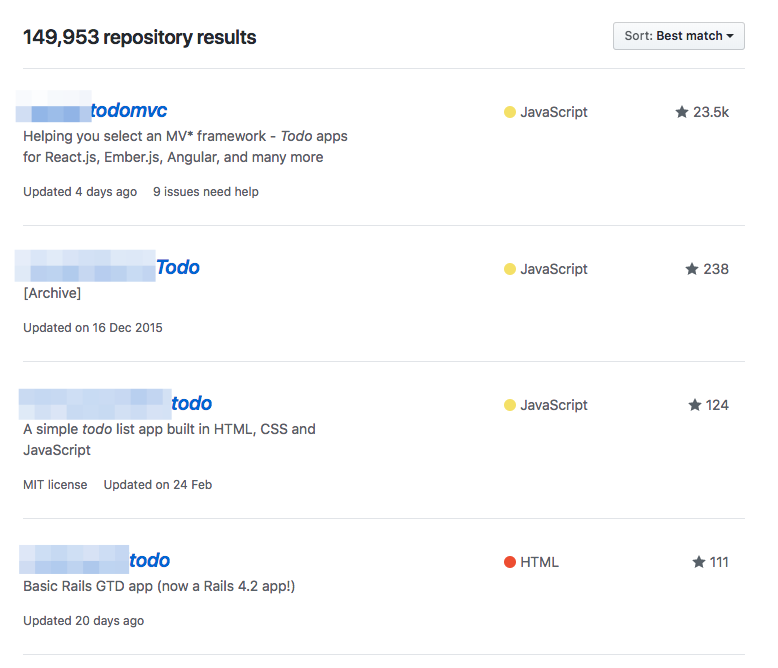
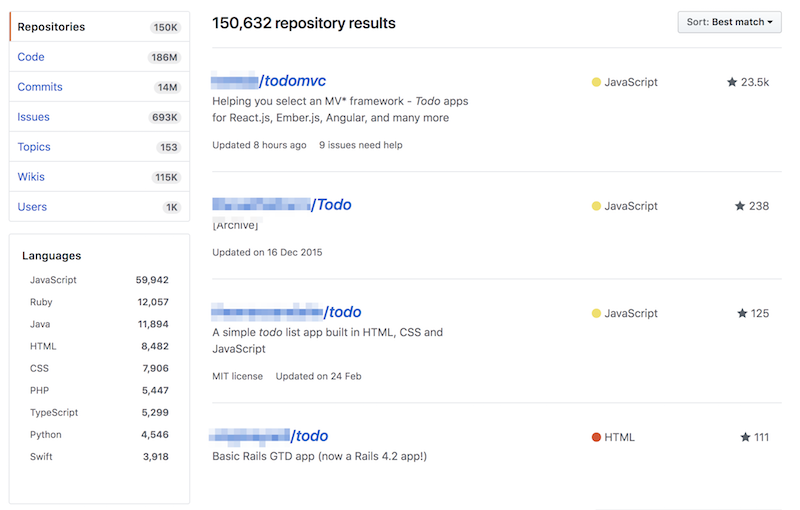
Better image for todo search

diff --git a/index.md b/index.md
@@ -762,7 +762,7 @@ come up with some pet projects. What could work as such a project?
 </style>
 
 
-## How to study new?
+## Maybe a useful app?
 
 ![](pictures/todo.png)
 
